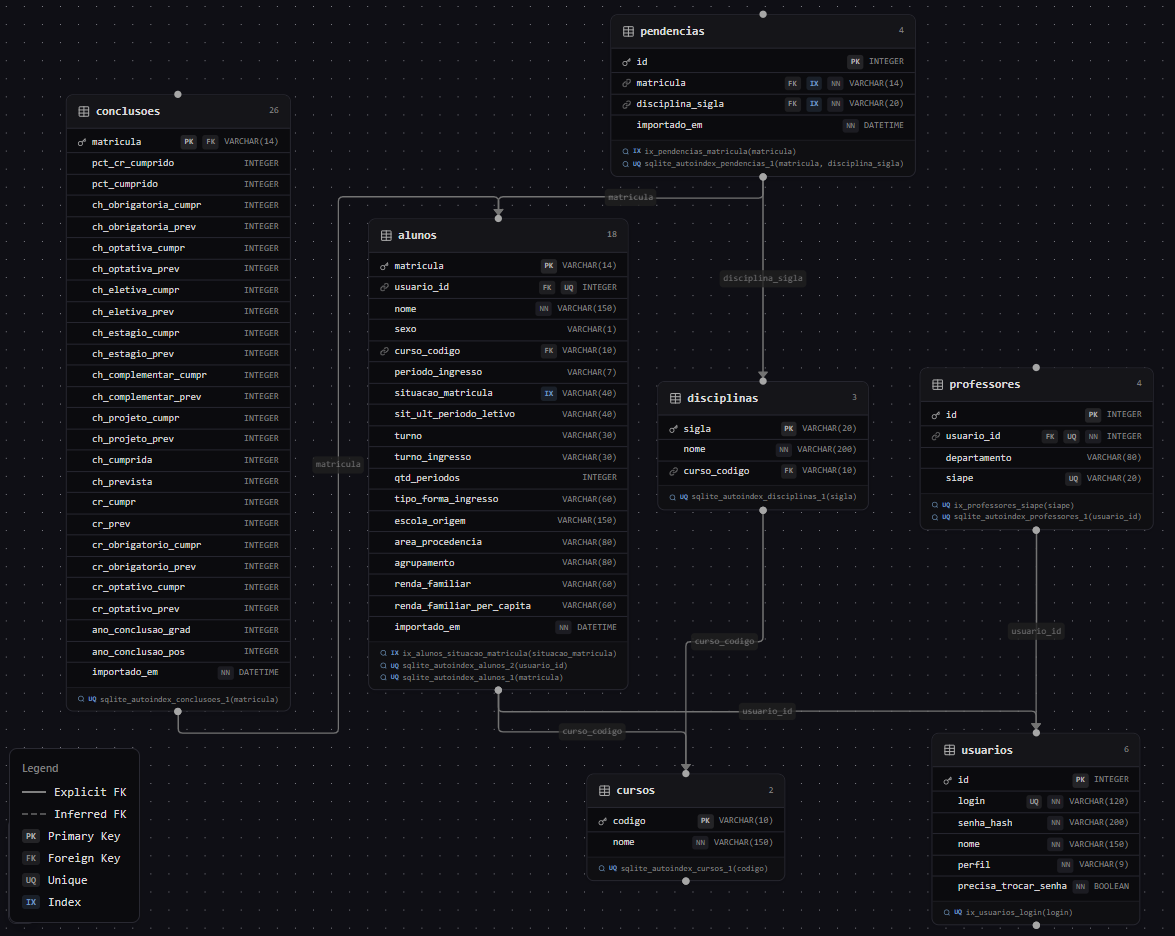
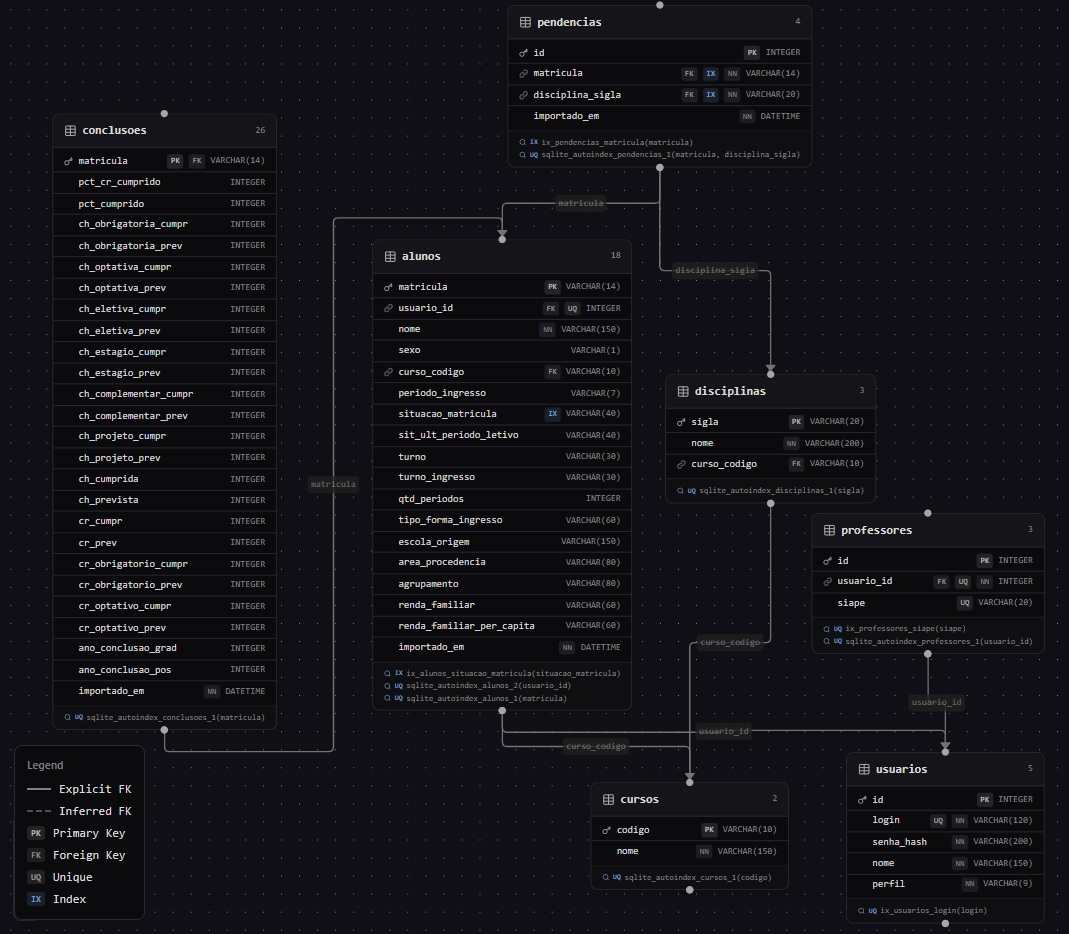
:card_file_box: db: remoção de atributos desnecessários do db

diff --git a/database/db.py b/database/db.py
@@ -17,6 +17,18 @@ def init_db():
     from database import models  # noqa: F401
     Base.metadata.create_all(bind=engine)
     with engine.begin() as connection:
+        for table_name, column_name in (
+            ("usuarios", "precisa_trocar_senha"),
+            ("professores", "departamento"),
+        ):
+            columns = connection.exec_driver_sql(
+                f"PRAGMA table_info({table_name})"
+            ).fetchall()
+            if any(column[1] == column_name for column in columns):
+                connection.exec_driver_sql(
+                    f"ALTER TABLE {table_name} DROP COLUMN {column_name}"
+                )
+
         columns = connection.exec_driver_sql(
             "PRAGMA table_info(professores)"
         ).fetchall()

diff --git a/database/models.py b/database/models.py
@@ -1,7 +1,7 @@
 import enum
 from datetime import datetime
 from sqlalchemy import (
-    Column, Integer, String, Boolean, DateTime,
+    Column, Integer, String, DateTime,
     ForeignKey, Enum, UniqueConstraint
 )
 from sqlalchemy.orm import relationship
@@ -26,7 +26,6 @@ class Usuario(Base):
     senha_hash = Column(String(200), nullable=False)
     nome = Column(String(150), nullable=False)
     perfil = Column(Enum(PerfilEnum), nullable=False)
-    precisa_trocar_senha = Column(Boolean, default=False, nullable=False)
 
     aluno = relationship("Aluno", back_populates="usuario",
                          uselist=False, cascade="all, delete-orphan")

diff --git a/utils/excel_importer.py b/utils/excel_importer.py
@@ -123,7 +123,6 @@ def _criar_usuario_para_aluno(session, aluno: Aluno):
         nome=aluno.nome,
         senha_hash=hash_senha(senha),
         perfil=PerfilEnum.ALUNO,
-        precisa_trocar_senha=True,
     )
     session.add(usuario)
     session.flush()

diff --git a/README.md b/README.md
@@ -80,7 +80,6 @@ erDiagram
       string senha_hash
       string nome
       enum perfil
-      boolean precisa_trocar_senha
    }
    ALUNO {
       string matricula PK
@@ -125,6 +124,7 @@ erDiagram
 
 As planilhas importadas da coordenação do curso de forma pura tem muitas colunas que são ignoradas no projeto pois não são necessárias para os dashboards que aparecem nesse MVP. Todas as colunas podem ser verificadas a seguir:
 ![Imagem do Modelo Entidade Relacionamento completo](./src/image.png)
+imagem gerada no site https://jurerotar.github.io/sqlite-erd/
 
 ### Cardinalidades
 
